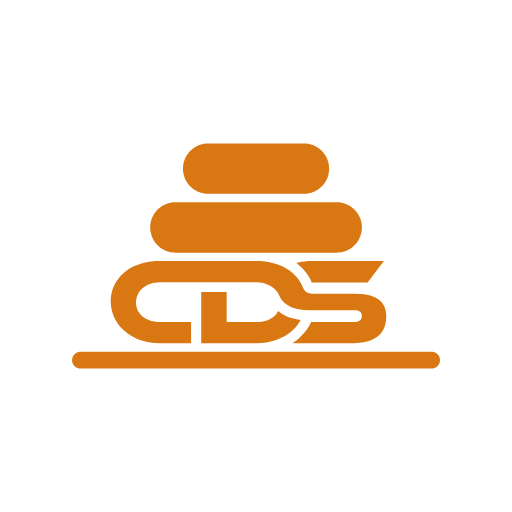
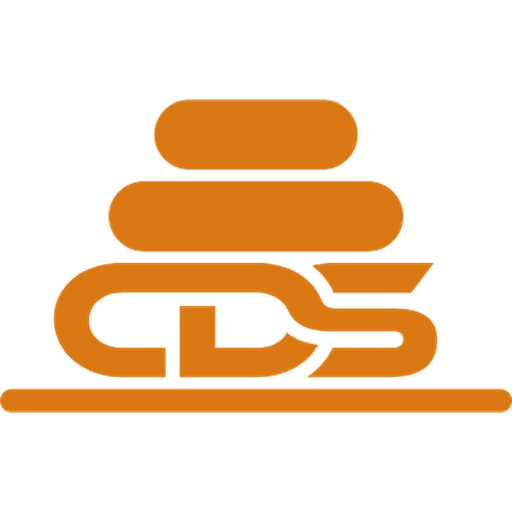
1.147.1: nova ikona programa (prozorno ozadje, logotip čez celotno ploskev)
Claude-Session: https://claude.ai/code/session_01MRdpRVYkmwwPLSwjyrCq63

Changed region(s): [[0.0, 0.1875, 1.0, 0.8125]]

diff --git a/release-notes/v1.147.1.md b/release-notes/v1.147.1.md
@@ -1,0 +1,15 @@
+## What's new in 1.147.1
+
+- **New program icon**
+  The program icon (and the web app icons) now show only the gold logo from edge to edge, with a transparent background instead of white.
+
+---
+
+## Kaj je novega v 1.147.1
+
+- **Nova ikona programa**
+  Ikona programa (in ikone spletne aplikacije) zdaj prikazuje samo zlati logotip od roba do roba, ozadje pa je prozorno namesto belo.
+
+---
+
+Layerling Desktop is a desktop version of the open-source [layerling](https://github.com/henmedia/layerling) (version 1.147.0) with a Slovenian interface. / Layerling Desktop je namizna različica odprtokodnega programa [layerling](https://github.com/henmedia/layerling) (različica 1.147.0) s slovenskim vmesnikom.
